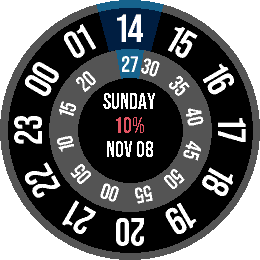
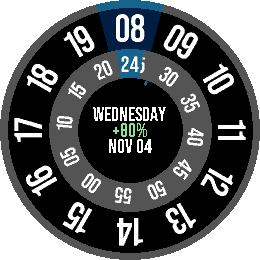
Release 1.3.0 with the minute ring beneath a fixed window (#8)
Keep the minute window fixed at the top and draw the uniformly rotating minute labels beneath it. All secrets, tests and build checks passed before merge.

diff --git a/tests/lifecycle.test.js b/tests/lifecycle.test.js
@@ -9,7 +9,7 @@ const path = require('node:path');
 const root = path.join(__dirname, '..');
 const scenarios = [
   'window-failure', 'layer-failure', 'font-null', 'font-fallback', 'atlas-failure',
-  'main', 'always', 'off', 'shake', 'timer-failure', 'focus', 'cleanup',
+  'main', 'minute-layout', 'always', 'off', 'shake', 'timer-failure', 'focus', 'cleanup',
   'health', 'health-subscription-failure', 'message-failure', 'partial-cleanup',
   'disable-steps', 'disable-steps-saved', 'disable-steps-invalid-saved', 'disable-steps-invalid',
   'disable-steps-save-failure', 'disable-steps-subscription-failure'
@@ -26,7 +26,9 @@ test('native watchface lifecycle and fault injection', async t => {
   try {
     for (const [platform, defines] of [
       ['round-health', ['-DPBL_DISPLAY_WIDTH=260', '-DPBL_ROUND', '-DPBL_HEALTH']],
-      ['rect-no-health', ['-DPBL_DISPLAY_WIDTH=144']]
+      ['small-round', ['-DPBL_DISPLAY_WIDTH=180', '-DPBL_ROUND']],
+      ['large-rect', ['-DPBL_DISPLAY_WIDTH=200', '-DPBL_DISPLAY_HEIGHT=228', '-DPBL_HEALTH']],
+      ['rect-no-health', ['-DPBL_DISPLAY_WIDTH=144', '-DPBL_DISPLAY_HEIGHT=168']]
     ]) {
       const binary = path.relative(root, path.join(dir, platform))
         .split(path.sep).join('/');

diff --git a/tests/native/lifecycle_test.c b/tests/native/lifecycle_test.c
@@ -6,6 +6,8 @@
 #include <stdlib.h>
 #include <string.h>
 
+static struct tm *fake_localtime(const time_t *timer);
+#define localtime fake_localtime
 #define main watchface_main
 #ifdef LIFECYCLE_BASELINE
 // The original main relied on C's implicit return, which renaming removes.
@@ -17,6 +19,7 @@
 #include "../../app/src/c/main.c"
 #endif
 #undef main
+#undef localtime
 
 struct Layer { GRect bounds; LayerUpdateProc update; bool live; bool root; };
 struct Window { Layer root; WindowHandlers handlers; bool live; bool pushed; };
@@ -48,6 +51,15 @@ static struct {
   int32_t disable_steps;
   int lines;
   int health_reads;
+  bool capture, use_fake_time;
+  struct tm now;
+  int sectors, label_count;
+  struct {
+    char text[4];
+    GPoint center;
+    int32_t angle;
+    int sectors;
+  } labels[25];
 #ifdef PBL_HEALTH
   HealthEventHandler health;
   void *health_context;
@@ -55,6 +67,10 @@ static struct {
   HealthValue steps;
 #endif
 } f;
+
+static struct tm *fake_localtime(const time_t *timer) {
+  return f.use_fake_time ? &f.now : localtime(timer);
+}
 
 static void check(bool condition, const char *message) {
   if (!condition) {
@@ -85,7 +101,7 @@ Window *window_create(void) {
   f.window_creates++;
   if (f.fail_window) return NULL;
   f.window.live = true;
-  f.window.root = (Layer){ .bounds = GRect(0, 0, PBL_DISPLAY_WIDTH, PBL_DISPLAY_WIDTH),
+  f.window.root = (Layer){ .bounds = GRect(0, 0, PBL_DISPLAY_WIDTH, PBL_DISPLAY_HEIGHT),
                            .live = true, .root = true };
   return &f.window;
 }
@@ -187,7 +203,13 @@ int numerals_width(const char *text, int height) {
 }
 void numerals_draw(GBitmap *bitmap, const char *text, GPoint center, int32_t angle,
                    int height, GColor color) {
-  (void)bitmap; (void)text; (void)center; (void)angle; (void)height; (void)color;
+  (void)bitmap; (void)height; (void)color;
+  check(f.label_count < 25, "label recording capacity");
+  int index = f.label_count++;
+  snprintf(f.labels[index].text, sizeof(f.labels[index].text), "%s", text);
+  f.labels[index].center = center;
+  f.labels[index].angle = angle;
+  f.labels[index].sectors = f.sectors;
 }
 void tick_timer_service_subscribe(TimeUnits units, TickHandler handler) {
   check(!f.tick_live, "unsubscribe before replacing tick subscription");
@@ -293,6 +315,7 @@ void graphics_fill_circle(GContext *context, GPoint point, uint16_t radius) {
 void graphics_fill_radial(GContext *context, GRect rect, GOvalScaleMode mode,
                           uint16_t inset, int32_t start, int32_t end) {
   (void)context; (void)rect; (void)mode; (void)inset; (void)start; (void)end;
+  f.sectors++;
 }
 void graphics_draw_line(GContext *context, GPoint start, GPoint end) {
   (void)context; (void)start; (void)end;
@@ -314,9 +337,13 @@ void graphics_draw_text(GContext *context, const char *text, GFont font, GRect r
   }
 }
 GPath *gpath_create(const GPathInfo *info) { static GPath path; (void)info; return &path; }
-void gpath_draw_filled(GContext *context, GPath *path) { (void)context; (void)path; }
+void gpath_draw_filled(GContext *context, GPath *path) {
+  (void)context; (void)path; f.sectors++;
+}
 void gpath_destroy(GPath *path) { (void)path; }
-GBitmap *graphics_capture_frame_buffer(GContext *context) { (void)context; return NULL; }
+GBitmap *graphics_capture_frame_buffer(GContext *context) {
+  return f.capture ? (GBitmap *)context : NULL;
+}
 void graphics_release_frame_buffer(GContext *context, GBitmap *bitmap) {
   (void)context; valid(bitmap);
 }
@@ -399,6 +426,58 @@ int main(int argc, char **argv) {
     check(f.null_calls == 0, "cleanup before initialization is harmless");
     check(f.window_destroys == 0 && f.layer_destroys == 0 && f.font_unloads == 0,
           "empty cleanup does not free unowned resources");
+  } else if (strcmp(scenario, "minute-layout") == 0) {
+    start(DialSecondsOff);
+    f.capture = true;
+    f.use_fake_time = true;
+    f.now = (struct tm){ .tm_hour = 23, .tm_wday = 3, .tm_mon = 10, .tm_mday = 8 };
+    int half_w = f.layer.bounds.size.w / 2;
+    int half_h = f.layer.bounds.size.h / 2;
+    int unit = half_w < half_h ? half_w : half_h;
+    Dial dial = {
+      .center = grect_center_point(&f.layer.bounds),
+      .center_q4 = GPoint(f.layer.bounds.size.w * 8, f.layer.bounds.size.h * 8),
+      .outer = PBL_IF_ROUND_ELSE(((DialTrack){ unit, unit, unit }),
+          ((DialTrack){ half_w, half_h, prv_scale(unit, SQUARE_CORNER) })),
+      .unit = unit,
+    };
+    DialTrack minute_text = prv_track(&dial, MINUTE_TEXT_RADIUS);
+    int32_t normal = 0;
+    GPoint pointer = prv_track_walk_q4(&dial, minute_text, 0, &normal);
+    for (int minute = 0; minute <= 60; minute++) {
+      f.now.tm_min = minute % 60;
+      f.label_count = 0;
+      f.sectors = 0;
+      GContext context = { 0 };
+      prv_dial_update(&f.layer, &context);
+      check(f.label_count == 25, "draw all ring labels plus hour and minute readouts");
+      for (int slot = 0; slot < DIAL_MINUTE_SLOTS; slot++) {
+        char expected[4];
+        snprintf(expected, sizeof(expected), "%02d", slot * 5);
+        check(strcmp(f.labels[slot].text, expected) == 0, "ring label value");
+        check(f.labels[slot].sectors == 0, "draw ring labels beneath pointer sectors");
+        int32_t expected_normal = 0;
+        GPoint expected_center = prv_track_walk_q4(&dial, minute_text,
+            dial_minute_angle(slot * 5, minute % 60), &expected_normal);
+        check(f.labels[slot].center.x == expected_center.x
+              && f.labels[slot].center.y == expected_center.y
+              && f.labels[slot].angle == expected_normal,
+              "ring labels must rotate uniformly without pointer avoidance or hiding");
+      }
+      check(f.labels[24].sectors == 3, "draw exact minute above all pointer sectors");
+      check(f.labels[24].center.x == pointer.x && f.labels[24].center.y == pointer.y
+            && f.labels[24].angle == normal, "minute window must remain fixed at the top");
+      char expected[4];
+      snprintf(expected, sizeof(expected), "%02d", minute % 60);
+      check(strcmp(f.labels[24].text, expected) == 0, "exact minute readout value");
+      if (minute % 5 == 0) {
+        int slot = minute % 60 / 5;
+        check(f.labels[slot].center.x == pointer.x && f.labels[slot].center.y == pointer.y,
+              "ring label passes directly beneath the fixed minute window");
+      }
+    }
+    prv_deinit();
+    assert_clean();
   } else if (strcmp(scenario, "main") == 0) {
     watchface_main();
     check(f.event_loops == 1 && f.service_starts > 0,

diff --git a/app/src/c/main.c b/app/src/c/main.c
@@ -116,21 +116,6 @@ static void prv_fill_track(GContext *ctx, GPoint c, DialTrack t, GColor color) {
   }
 }
 
-#if PBL_DISPLAY_WIDTH >= 200
-// Perimeter of `track` in 1/16 pixel units, matching prv_track_walk_q4.
-static int32_t prv_track_length_q4(DialTrack track) {
-  int rc = track.corner;
-  if (rc > track.half_w) {
-    rc = track.half_w;
-  }
-  if (rc > track.half_h) {
-    rc = track.half_h;
-  }
-  int32_t arc = rc * 16 * 25736 / 16384;
-  return 4 * ((track.half_w - rc) * 16 + (track.half_h - rc) * 16 + arc);
-}
-#endif
-
 // Walks `turn` (0 to TRIG_MAX_ANGLE, clockwise from 12 o'clock) of the way
 // around `track` at constant speed. Returns the point in 1/16 pixel units and
 // sets `normal` to the outward direction there, which is how labels are
@@ -341,32 +326,10 @@ static void prv_dial_update(Layer *layer, GContext *ctx) {
 
   GBitmap *fb = s_numerals_ready ? prv_capture(ctx) : NULL;
   if (fb) {
-#if PBL_DISPLAY_WIDTH >= 200
-    // Big screens have room to keep the labels next to the pointer, moved just
-    // clear of the minute box instead of hidden.
-    int32_t track_len = prv_track_length_q4(minute_text);
-    GPoint box_edge = prv_track_point_q4(&dial, minute_text,
-                                         DEG_TO_TRIGANGLE(MINUTE_BOX_HALF_ANGLE));
-    int32_t box_half_q4 = box_edge.x - dial.center_q4.x;
-#endif
     for (int slot = 0; slot < DIAL_MINUTE_SLOTS; slot++) {
       int label = dial_minute_label(slot);
-#if PBL_DISPLAY_WIDTH >= 200
-      if (label == now->tm_min || track_len <= 0) {
-        continue;
-      }
-      char text[4];
-      snprintf(text, sizeof(text), "%02d", label);
-      int32_t clearance_q4 = box_half_q4 + (numerals_width(text, minute_h) / 2 + 2) * 16;
-      int32_t clearance = (int32_t)((int64_t)clearance_q4 * DIAL_FULL_TURN / track_len);
-      int32_t turn = dial_clear_pointer(dial_minute_offset(label, now->tm_min), clearance);
-#else
-      if (!dial_minute_label_visible(label, now->tm_min)) {
-        continue;
-      }
-      int32_t turn = dial_minute_angle(label, now->tm_min);
-#endif
-      prv_draw_label(fb, &dial, label, minute_text, turn, minute_h, GColorWhite);
+      prv_draw_label(fb, &dial, label, minute_text, dial_minute_angle(label, now->tm_min),
+                     minute_h, GColorWhite);
     }
     for (int slot = 1; slot < DIAL_HOUR_SLOTS; slot++) {
       prv_draw_label(fb, &dial, dial_hour_label(now->tm_hour, slot, is_24h), hour_text,
@@ -375,7 +338,7 @@ static void prv_dial_update(Layer *layer, GContext *ctx) {
     graphics_release_frame_buffer(ctx, fb);
   }
 
-  // The pointer shield at 12 o'clock carries the current hour and minute.
+  // The fixed pointer sits above the rotating ring, partially covering nearby labels.
   prv_fill_sector(ctx, &dial, rim, rim_in, SHIELD_HALF_ANGLE, COLOR_SHIELD_EDGE);
   prv_fill_sector(ctx, &dial, rim_in, hour_in, SHIELD_HALF_ANGLE, COLOR_SHIELD_HOUR);
   prv_fill_sector(ctx, &dial, hour_in, minute_in, MINUTE_BOX_HALF_ANGLE, COLOR_SHIELD_MINUTE);

diff --git a/tests/native/dial_test.c b/tests/native/dial_test.c
@@ -47,27 +47,21 @@ static void test_minute_ring(void) {
   CHECK(dial_minute_angle(20, 20) == 0);
   CHECK(dial_minute_angle(35, 20) == DIAL_FULL_TURN / 4);
   CHECK(dial_minute_angle(5, 20) == DIAL_FULL_TURN * 3 / 4);
+  CHECK(dial_minute_angle(0, 60) == 0);
+  CHECK(dial_minute_angle(0, -1) == dial_minute_angle(0, 59));
   CHECK(dial_hour_angle(3) == DIAL_FULL_TURN / 4);
   CHECK(dial_hour_angle(12) == 0);
 
-  // Labels within two minutes of the pointer would sit half under its box.
-  CHECK(!dial_minute_label_visible(20, 20));
-  CHECK(!dial_minute_label_visible(25, 23));
-  CHECK(dial_minute_label_visible(25, 22));
-  CHECK(!dial_minute_label_visible(0, 59));
-  CHECK(!dial_minute_label_visible(55, 57));
-  CHECK(dial_minute_label_visible(55, 58));
-  CHECK(dial_minute_label_visible(50, 57));
-  CHECK(dial_minute_offset(5, 3) == DIAL_FULL_TURN * 2 / 60);
-  CHECK(dial_minute_offset(0, 3) == dial_minute_angle(0, 3) - DIAL_FULL_TURN);
-  CHECK(dial_minute_offset(0, 3) < 0);
-  CHECK(dial_minute_offset(33, 3) == DIAL_FULL_TURN / 2);
-  CHECK(dial_minute_offset(35, 3) < 0);
-  CHECK(dial_clear_pointer(100, 3000) == 3000);
-  CHECK(dial_clear_pointer(-100, 3000) == -3000);
-  CHECK(dial_clear_pointer(5000, 3000) == 5000);
-  CHECK(dial_clear_pointer(-5000, 3000) == -5000);
-  CHECK(dial_clear_pointer(0, 3000) == 0);
+  for (int minute = 0; minute < 60; minute++) {
+    for (int slot = 0; slot < DIAL_MINUTE_SLOTS; slot++) {
+      int label = dial_minute_label(slot);
+      int relative_minute = (label - minute + 60) % 60;
+      CHECK(dial_minute_angle(label, minute) == relative_minute * DIAL_FULL_TURN / 60);
+      if (minute == label) {
+        CHECK(dial_minute_angle(label, minute) == 0);
+      }
+    }
+  }
 }
 
 static void test_text(void) {

diff --git a/app/src/c/dial.c b/app/src/c/dial.c
@@ -50,26 +50,6 @@ int32_t dial_minute_angle(int label_minute, int minute) {
   return (int32_t)prv_mod(label_minute - minute, 60) * DIAL_FULL_TURN / 60;
 }
 
-bool dial_minute_label_visible(int label_minute, int minute) {
-  int diff = prv_mod(label_minute - minute, 60);
-  return diff > 2 && diff < 58;
-}
-
-int32_t dial_minute_offset(int label_minute, int minute) {
-  int32_t angle = dial_minute_angle(label_minute, minute);
-  return angle > DIAL_FULL_TURN / 2 ? angle - DIAL_FULL_TURN : angle;
-}
-
-int32_t dial_clear_pointer(int32_t offset, int32_t clearance) {
-  if (offset > 0 && offset < clearance) {
-    return clearance;
-  }
-  if (offset < 0 && offset > -clearance) {
-    return -clearance;
-  }
-  return offset;
-}
-
 int32_t dial_hour_angle(int slot) {
   return (int32_t)prv_mod(slot, DIAL_HOUR_SLOTS) * DIAL_FULL_TURN / DIAL_HOUR_SLOTS;
 }

diff --git a/app/src/c/dial.h b/app/src/c/dial.h
@@ -35,16 +35,6 @@ int dial_minute_label(int slot);
 // Clockwise angle of a minute ring label when `minute` sits under the pointer.
 int32_t dial_minute_angle(int label_minute, int minute);
 
-// False for ring labels close enough to the pointer box to be half covered.
-bool dial_minute_label_visible(int label_minute, int minute);
-
-// Like dial_minute_angle, but signed: negative for labels left of the pointer.
-int32_t dial_minute_offset(int label_minute, int minute);
-
-// Moves a signed label offset that sits within `clearance` of the pointer out
-// to `clearance` on the same side. Zero (the pointer itself) is left alone.
-int32_t dial_clear_pointer(int32_t offset, int32_t clearance);
-
 // Clockwise angle of hour ring slot `slot`.
 int32_t dial_hour_angle(int slot);
 

diff --git a/tests/native/pebble.h b/tests/native/pebble.h
@@ -12,6 +12,9 @@
 #ifndef PBL_DISPLAY_WIDTH
 #define PBL_DISPLAY_WIDTH 260
 #endif
+#ifndef PBL_DISPLAY_HEIGHT
+#define PBL_DISPLAY_HEIGHT PBL_DISPLAY_WIDTH
+#endif
 #ifdef PBL_ROUND
 #define PBL_IF_ROUND_ELSE(round, rect) (round)
 #else

diff --git a/README.md b/README.md
@@ -8,7 +8,7 @@ This is an independent remake inspired by [Roto360](https://apps.repebble.com/ro
 
 ## How it reads
 
-The time sits under the blue shield at the top of the dial. The outer ring holds the hours and the inner ring holds the minutes in steps of five, and both rings turn so the current hour and minute stay under the shield. The minute box shows the exact minute. The center shows the weekday, battery level and date.
+The time sits under the blue shield fixed at the top of the dial. The outer ring holds the hours and the inner ring holds the minutes in steps of five, and the rings turn so the current hour and minute stay under the shield. The minute box shows the exact minute and sits in front of the minute ring: nearby labels keep their regular spacing and pass underneath it, becoming partially obscured as they approach each five-minute mark. The center shows the weekday, battery level and date.
 
 - Follows the watch's 12-hour or 24-hour setting. In 12-hour mode the hour ring reads 01 to 12.
 - Battery turns red at 20% or below. While charging it shows a green `+`, for example `+80%`.
